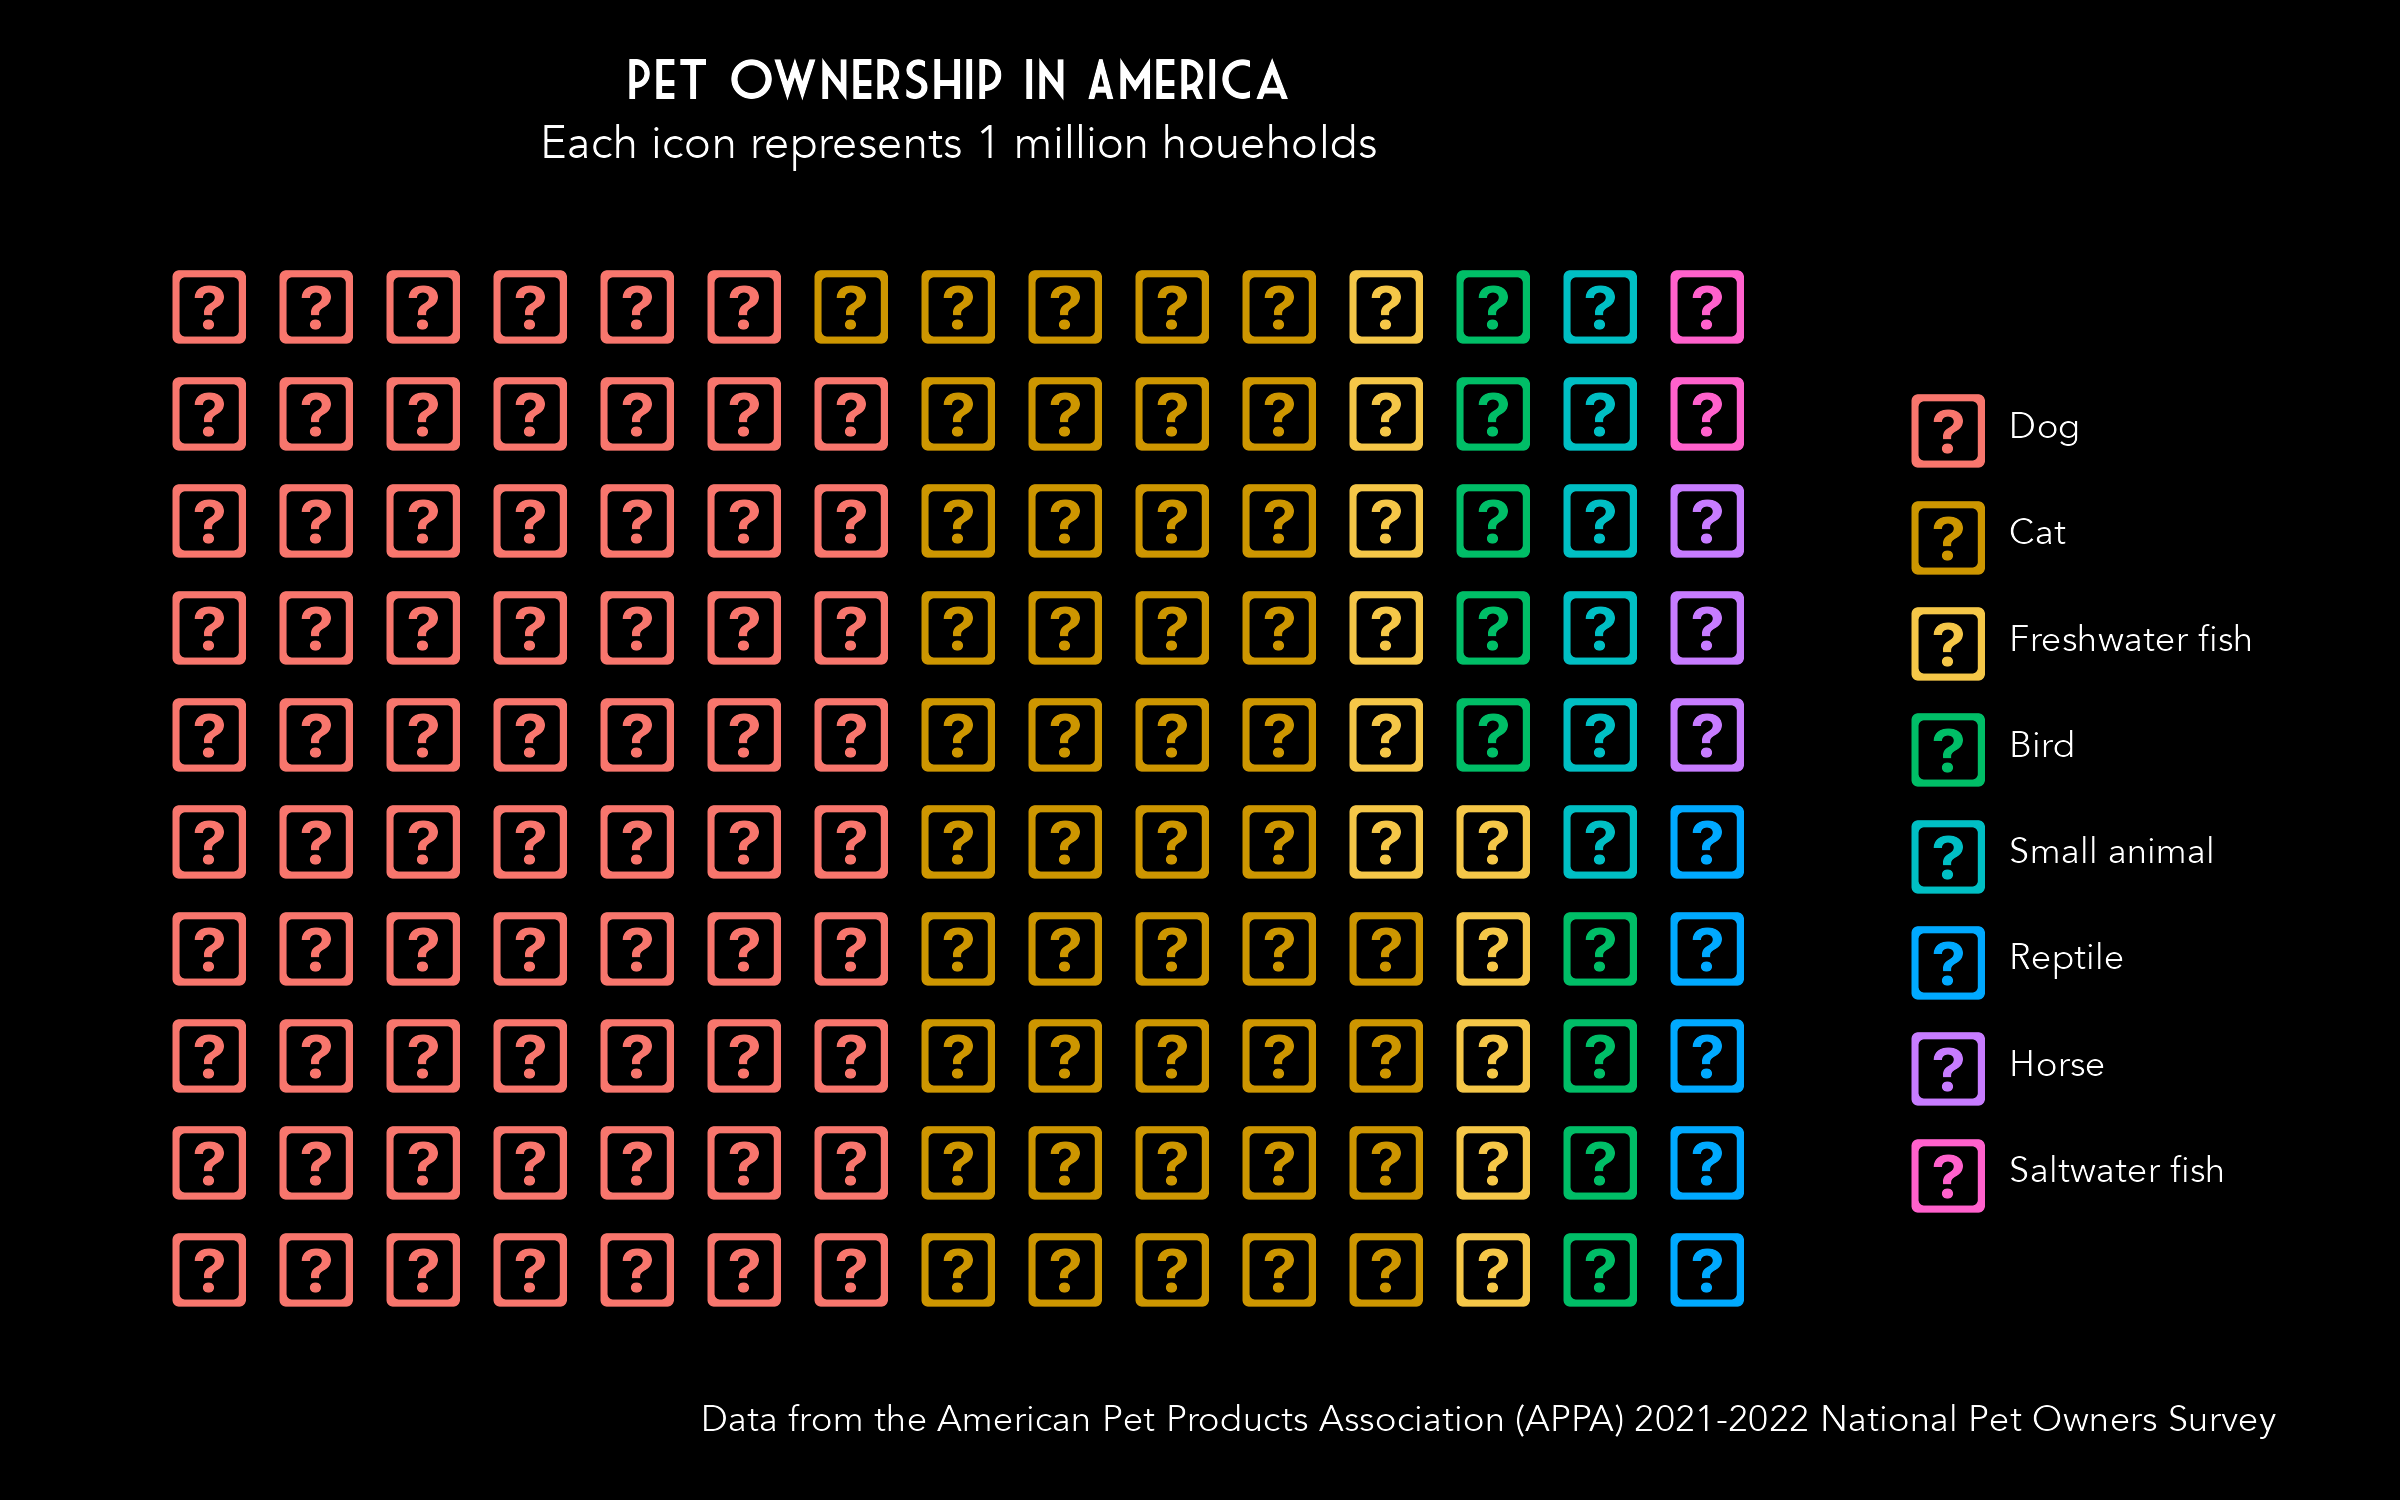
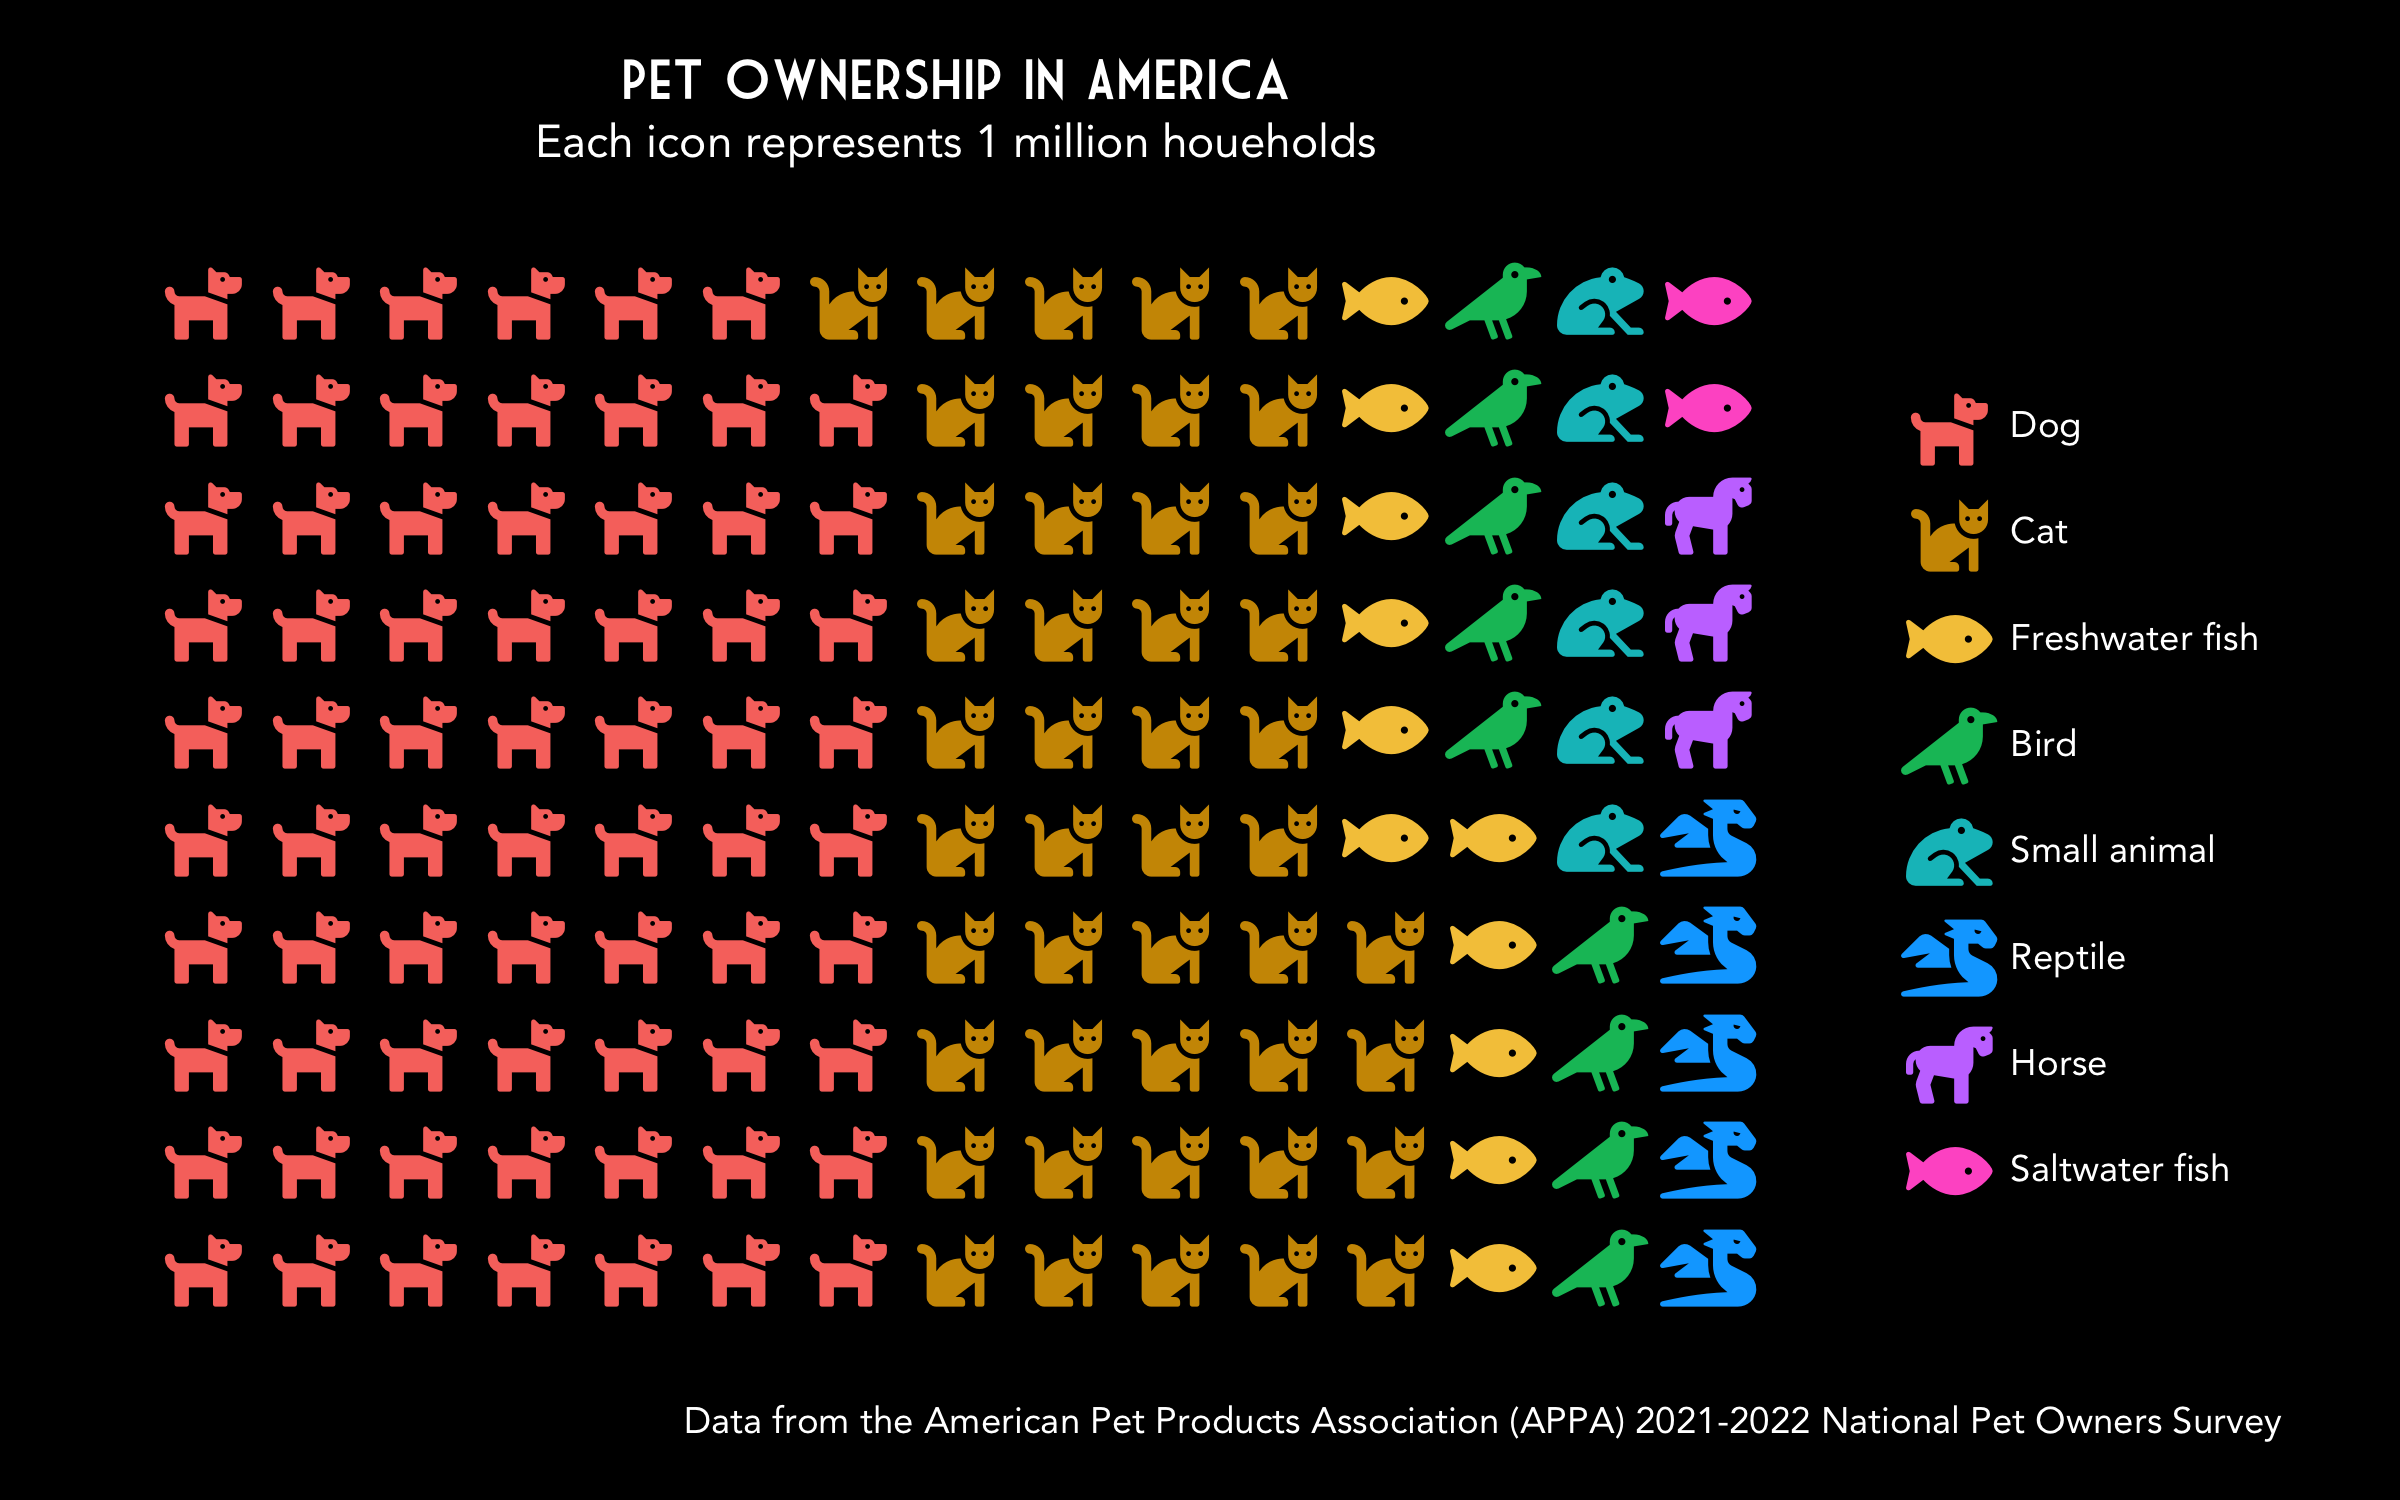
ggsave lose ragg

diff --git a/docs/pictogram.html b/docs/pictogram.html
@@ -223,11 +223,16 @@ Figure 2.1: Number of US households (in millions) with each of 8 common pet type
 <h2>
 <span class="header-section-number">2.6</span> Save<a class="anchor" aria-label="anchor" href="#save"><i class="fas fa-link"></i></a>
 </h2>
-<p>However, I'm having trouble saving the plot using <code><a href="https://rdrr.io/pkg/ggplot2/man/ggsave.html">ggsave()</a></code>. The icons end up garbled.</p>
+<p>However, I had trouble saving the plot using <code><a href="https://rdrr.io/pkg/ggplot2/man/ggsave.html">ggsave()</a></code>. The icons end up garbled.</p>
 <div class="sourceCode" id="cb18"><pre class="downlit sourceCode r">
-<code class="sourceCode R"><span class="fu"><a href="https://rdrr.io/pkg/ggplot2/man/ggsave.html">ggsave</a></span><span class="op">(</span><span class="st">"images/day2.png"</span>, width <span class="op">=</span> <span class="fl">8</span>, height <span class="op">=</span> <span class="fl">5</span><span class="op">)</span>
+<code class="sourceCode R"><span class="fu"><a href="https://rdrr.io/pkg/ggplot2/man/ggsave.html">ggsave</a></span><span class="op">(</span><span class="st">"images/day2_garbled.png"</span>, width <span class="op">=</span> <span class="fl">8</span>, height <span class="op">=</span> <span class="fl">5</span><span class="op">)</span>
+<span class="fu">knitr</span><span class="fu">::</span><span class="fu"><a href="https://rdrr.io/pkg/knitr/man/include_graphics.html">include_graphics</a></span><span class="op">(</span><span class="st">"images/day2_garbled.png"</span><span class="op">)</span></code></pre></div>
+<div class="inline-figure"><img src="images/day2_garbled.png" title="Same as above, but all the icons are question marks." alt="Same as above, but all the icons are question marks." width="100%" style="display: block; margin: auto;"></div>
+<p>This turns out to be because <code><a href="https://rdrr.io/pkg/ggplot2/man/ggsave.html">ggsave()</a></code> uses ragg by default (HT <a href="https://twitter.com/sharoz/status/1510342578268516355">Steve Haroz</a>), which isn't playing well with fontawesome icons, so I have to set the device back to <code>png</code>.</p>
+<div class="sourceCode" id="cb19"><pre class="downlit sourceCode r">
+<code class="sourceCode R"><span class="fu"><a href="https://rdrr.io/pkg/ggplot2/man/ggsave.html">ggsave</a></span><span class="op">(</span><span class="st">"images/day2.png"</span>, width <span class="op">=</span> <span class="fl">8</span>, height <span class="op">=</span> <span class="fl">5</span>, device <span class="op">=</span> <span class="va">png</span><span class="op">)</span>
 <span class="fu">knitr</span><span class="fu">::</span><span class="fu"><a href="https://rdrr.io/pkg/knitr/man/include_graphics.html">include_graphics</a></span><span class="op">(</span><span class="st">"images/day2.png"</span><span class="op">)</span></code></pre></div>
-<div class="inline-figure"><img src="images/day2.png" title="Same as above, but all the icons are question marks." alt="Same as above, but all the icons are question marks." width="100%" style="display: block; margin: auto;"></div>
+<div class="inline-figure"><img src="images/day2.png" title="fixed" alt="fixed" width="100%" style="display: block; margin: auto;"></div>
 </div>
 </div>
 <script>
